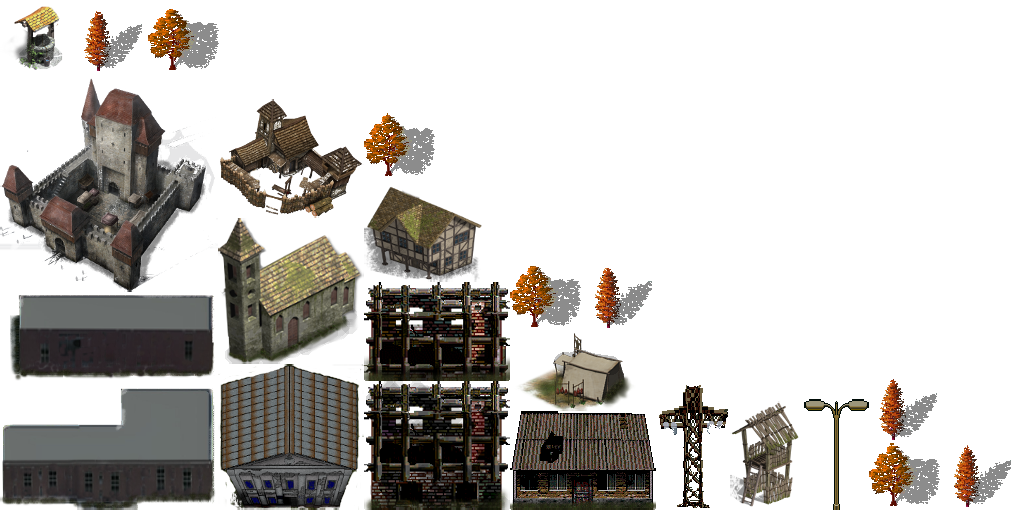
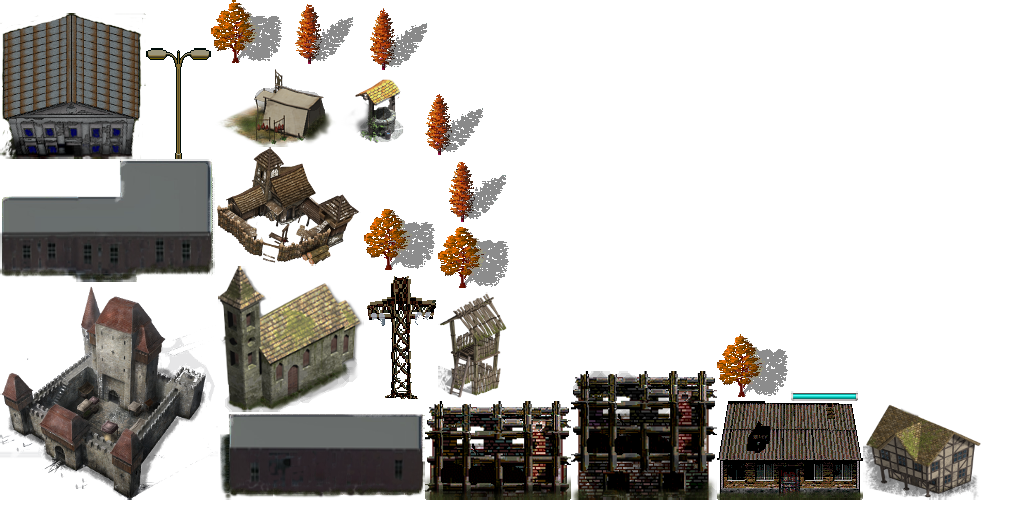
Новый атлас

diff --git a/core/src/ua/naiksoftware/waronline/res/MapMetaData.java b/core/src/ua/naiksoftware/waronline/res/MapMetaData.java
@@ -4,31 +4,6 @@ import ua.naiksoftware.waronline.game.MapObjCode;
 
 public class MapMetaData {
 
-    public static int objRange(MapObjCode code) {
-        switch (code) {
-            case TREE_1:
-            case TREE_2:
-            case WELL:
-                return 1;
-            case HATA_1:
-            case FORT:
-            case CHURCH:
-            case REMAINS1:
-            case REMAINS2:
-            case HATA_2:
-            case HATA_3:
-            case HATA_4:
-            case TENT:
-            case STOLB_1:
-            case STOLB_2:
-            case KPP:
-                return 2;
-            case ATB:
-                return 3;
-        }
-        return 0;
-    }
-
     public static final int[][] objIntersect(MapObjCode code) {
         switch (code) {
             case HATA_1:
@@ -37,8 +12,10 @@ public class MapMetaData {
             case HATA_3:
             case HATA_4:
                 return new int[][]{{1, 1}, {1, 1}};
-            case ATB:
-                return new int[][]{{1, 0, 1}, {1, 0, 1}, {1, 1, 1}};
+            case ATB_1:
+                return new int[][]{{0, 0, 1}, {0, 0, 1}, {0, 0, 1}};
+            case ATB_2:
+                return new int[][]{{0, 0, 1}, {0, 0, 1}, {0, 1, 1}};
             case CHURCH:
             case REMAINS2:
             case TENT:

diff --git a/core/src/ua/naiksoftware/waronline/game/editor/EditorHandler.java b/core/src/ua/naiksoftware/waronline/game/editor/EditorHandler.java
@@ -512,7 +512,8 @@ public class EditorHandler extends ScrollMap {
     private void initObjects() {
         putMapObjectToPanel(MapObjCode.HATA_1);
         putMapObjectToPanel(MapObjCode.FORT);
-        putMapObjectToPanel(MapObjCode.ATB);
+        putMapObjectToPanel(MapObjCode.ATB_1);
+        putMapObjectToPanel(MapObjCode.ATB_2);
         putMapObjectToPanel(MapObjCode.CHURCH);
         putMapObjectToPanel(MapObjCode.REMAINS1);
         putMapObjectToPanel(MapObjCode.REMAINS2);

diff --git a/core/src/ua/naiksoftware/waronline/game/MapObject.java b/core/src/ua/naiksoftware/waronline/game/MapObject.java
@@ -58,8 +58,11 @@ public class MapObject extends Sprite {
             case FORT:
                 name = "fort2x2";
                 break;
-            case ATB:
-                name = "atb3x3";
+            case ATB_1:
+                name = "atb3x1";
+                break;
+            case ATB_2:
+                name = "atb3x2";
                 break;
             case CHURCH:
                 name = "church2x1";

diff --git a/core/src/ua/naiksoftware/waronline/game/MapObjCode.java b/core/src/ua/naiksoftware/waronline/game/MapObjCode.java
@@ -6,7 +6,8 @@ package ua.naiksoftware.waronline.game;
 public enum MapObjCode {
 	HATA_1,
 	FORT,
-	ATB,
+	ATB_1,
+        ATB_2,
 	CHURCH,
 	REMAINS1,
 	REMAINS2,
